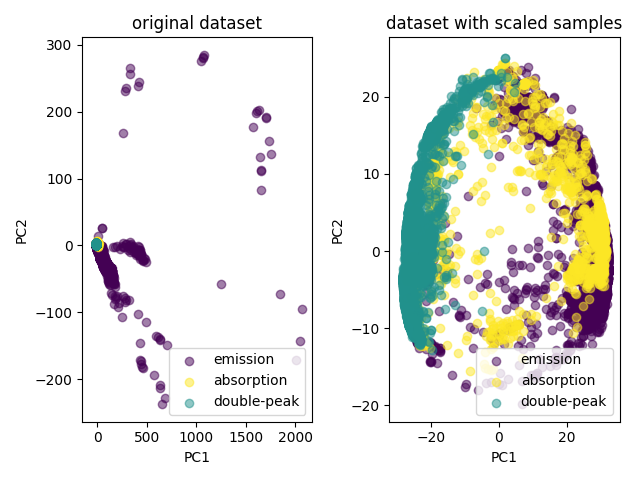
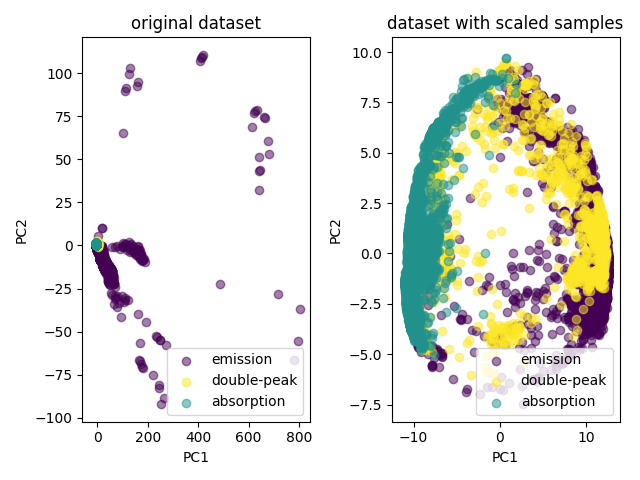
Write about dimensionality reduction

diff --git a/tex/preprocessing.tex b/tex/preprocessing.tex
@@ -1,12 +1,14 @@
 \chap Preprocessing
 
 This chapter describes all the action taken on the data from Ondřejov
-dataset before processing then through a neural network.
+dataset before processing them through a neural network.
+The last section is about dimensionality reduction of the data
+and its visualizations.
 
 \sec Knowledge Transfer
 
 Ondřejov and \glref{LAMOST} spectrographs have different parameters
-(as described in sections \ref[ondrejov-archive] and
+(as described in sections~\ref[ondrejov-archive] and
 \ref[lamost-archive]).
 Thus, spectra from the two archive different.
 Concretely, spectra from Ondřejov archive has much more details than
@@ -19,7 +21,7 @@ data from Ondřejov.
 It aims to extract as much knowledge as possible from Ondřejov data
 and apply it to classification of \glref{LAMOST} archive.
 Transfer learning and domain adaptation
-(described in chapter \ref[transfer-learning])
+(described in chapter~\ref[transfer-learning])
 are study area of machine learning which aim to offer methods
 for dealing with these problems.
 
@@ -33,7 +35,7 @@ they deal with differences between the archives mentioned above.
 Ondřejov and \glref{LAMOST} archives store wavelengths in air and vacuum
 wavelength respectively.
 When spectra of same object from the two archives are plotted on each
-other they are a bit shifted (see top plot in figure \ref[air2vacuum]).
+other they are a bit shifted (see top plot in figure~\ref[air2vacuum]).
 Therefore, Ondřejov spectra are converted to vacuum wavelengths
 according to formulas provided in \cite[air2vacuum]:
 
@@ -52,7 +54,7 @@ where $\lambda_{v}$ is vacuum wavelength and $\lambda_{a}$ is
 corresponding air wavelength.
 
 The resulting Ondřejov spectrum after air to vacuum conversion
-is plotted in bottom plot in figure \ref[air2vacuum].
+is plotted in bottom plot in figure~\ref[air2vacuum].
 
 \midinsert \clabel[air2vacuum]{Air to vacuum conversion}
 \picw=15cm \cinspic img/air2vacuum.png
@@ -68,18 +70,21 @@ detail of images.
 Spectrum can be seen as one dimensional image.
 Correctly parameterized Gaussian blur applied to Ondřejov spectrum
 would reduce the amount of detail
-and thus make it more similar to spectrum from \glref{LAMOST} archive.
+and thus make it more similar to spectra from \glref{LAMOST} archive.
 
 The equation of a one dimensional Gaussian function:
 
 $$ G(x) = {1 \over \sqrt{2 \pi \sigma^2}} e^{-{x^2 \over 2 \sigma^2}} \eqmark $$
 
 where $\sigma$ is standard deviation in pixels.
+Kernel generated by this function is convolved with a spectrum
+resulting in Gaussian blur.
 
 This work uses convolution implementation from Python package astropy
 \cite[astropy] in version 1.3.1.
 Standard deviation of value 7 was chosen after visualizing results of
 convolutions.
+Following code implements functionality described above:
 
 \begtt
 from astropy.convolution import Gaussian1DKernel, convolve
@@ -88,9 +93,14 @@ gauss_kernel = Gaussian1DKernel(stddev=7)
 smoothed_fluxes = convolve(fluxes, gauss_kernel)
 \endtt
 
+where {\tt fluxes} is array of spectrum's fluxes.
+Convolved spectrum's fluxes are stored to {\tt smoothed\_fluxes}.
+
 \midinsert \clabel[gaussian-blur-plot]{Gaussian blur}
 \picw=15cm \cinspic img/gaussian-blur.png
-\caption/f TODO
+\caption/f Comparison of original BT CMi and V395 Aur spectra from LAMOST
+and Ondřejov and Ondřejov's spectra convolved by Gaussian kernel
+with standard deviation of value 7.
 \endinsert
 
 \sec Regridding
@@ -106,7 +116,7 @@ The wavelengths range is given by Ondřejov dataset from 6519 to 6732
 Ondřejov spectra in this range has 829, 830, 831, or 922, 923 measured fluxes
 according to this thesis's experiments.
 This variance is caused by change of spectrograph in Ondřejov observatory
-(see section \ref[ondrejov-archive])
+(see section~\ref[ondrejov-archive])
 and the small deviation by the cut of spectrum into the range.
 LAMOST spectra has 140 measurements in this range
 inferred from 22 cross-matched spectra.
@@ -129,16 +139,62 @@ and {\tt old\_fluxes} variable holds corresponding fluxes of a spectrum.
 
 \sec Dimensionality Reduction
 
-TODO
+After the preprocessing methods mentioned in above sections each spectrum
+is a point in 140-dimensional space.
+To better understant the data \glref{PCA} and \glref{t-SNE} dimensionality
+reduction algorithms are applied to reduce each point to 2-dimensional space
+which can be visualized as scatter plot.
 
 \secc PCA
 
-Principal Component Analysis.
+Principal Component Analysis is statistical technique to tranform a number
+of possibly correlated variables into a smaller number of variables
+called principal components. \cite[pca]
+
+Left plot in figure~\ref[pca-plot] displays first and second principal
+component of original dataset.
+After further analysis the plot express more the intensities in spectra's
+fluxes than the shape.
+The points far from the dense area in middle left have high intense fluxes.
+But in this work the difference between intesities in fluxes is not interesting.
 
 \midinsert \clabel[pca-plot]{PCA}
 \picw=15cm \cinspic img/pca.png
-\caption/f TODO
+\caption/f On the left size is scatter plot with first two principal
+components of the original dataset. The plot more that difference in shape
+show difference in fluxes values.
+Right plot displays result of PCA applied to scaled variant of the dataset.
+After such preprocessing mehtod absorption spectra are oriented in left part
+of the plot, emission spectra are on the other side and double-peak spectra
+are spread across the whole plot.
 \endinsert
+
+The other plot in figure~\ref[pca-plot] shows dataset with supressed intensities
+so that the only feature should be the shape of each spectra
+(spectra are classified according to their shapes see chapter~\ref[ondrejov].
+Scaling of spectra intesities is done with Scikit-learn 0.18.1 \cite[sklearn]: 
+
+\begtt
+import sklearn.preprocessing
+
+X_scaled = sklearn.preprocessing.scale(X_orig, axis=1)
+\endtt
+
+where {\tt X\_orig} is input matrix of size $n \times 140$
+($n$ is number of spectra samples) containing original dataset.
+Each row of the matrix are the 140 fluxes of a spectrum.
+This procedure will scale each spectrum to have zero mean and unit varince
+and so the intensities are supressed.
+
+The scatter plot then expresses the structure of the dataset clearly.
+Absroption spectra are on the left side
+while emission spectra are mostly on the other side.
+Double-peak spectra are spread across the whole plot.
+This may implies that the emission and absorption spectra can be separable
+by linear classifier.
+But the double-peak spectra are mixed up with the other classes so
+hopefully a deep neural network can find such representation that all
+classes are separable.
 
 \secc t-SNE
 
@@ -150,34 +206,3 @@ Neighbor Embedding. \glref{t-SNE} is TODO.
 \picw=15cm \cinspic img/tsne.png
 \caption/f TODO
 \endinsert
-
-\sec Dataset Split
-
-This section shows how the Ondřejov dataset is split into
-training, validation and test set.
-These sets are required for training, tuning and evaluating any neural network.
-All split are done as stratified sampling so that the distribution of
-samples' number in a class is kept across sets.
-
-Test set on which the neural network is evaluated contains 10\% of all data.
-Validation set which serves for hyperparameter and architecture optimization
-is 20\% of remaining data.
-Training set is composed from the rest of data
-and its purpose is for training the network's weights contains 80\% of all data.
-Exact numbers of spectra in each set is in table \ref[dataset-split-table].
-
-\midinsert \clabel[dataset-split-table]{Dataset split table}
-\ctable{lrrr}{
-    \hfil set  & emission & absorption & double-peak \hfil \crl \tskip4pt
-    train      &     3817 &       4393 & 1104 \cr
-    validation &      954 &       1099 &  276 \cr
-    test       &      530 &        611 &  153 \cr
-}
-\caption/t Exact number of samples in train, validation and test set
-divided according to emission, absorption and double-peak classes.
-\endinsert
-
-\sec SMOTE Balancing
-
-\glref{SMOTE} is shortcut for Synthetic Minority Over-Sampling Technique.
-\cite[smote]

diff --git a/tex/ondrejov.tex b/tex/ondrejov.tex
@@ -1,3 +1,4 @@
+\label[ondrejov]
 \chap Classifying Ondřejov Archive
 
 This chapter discusses collection and classification
